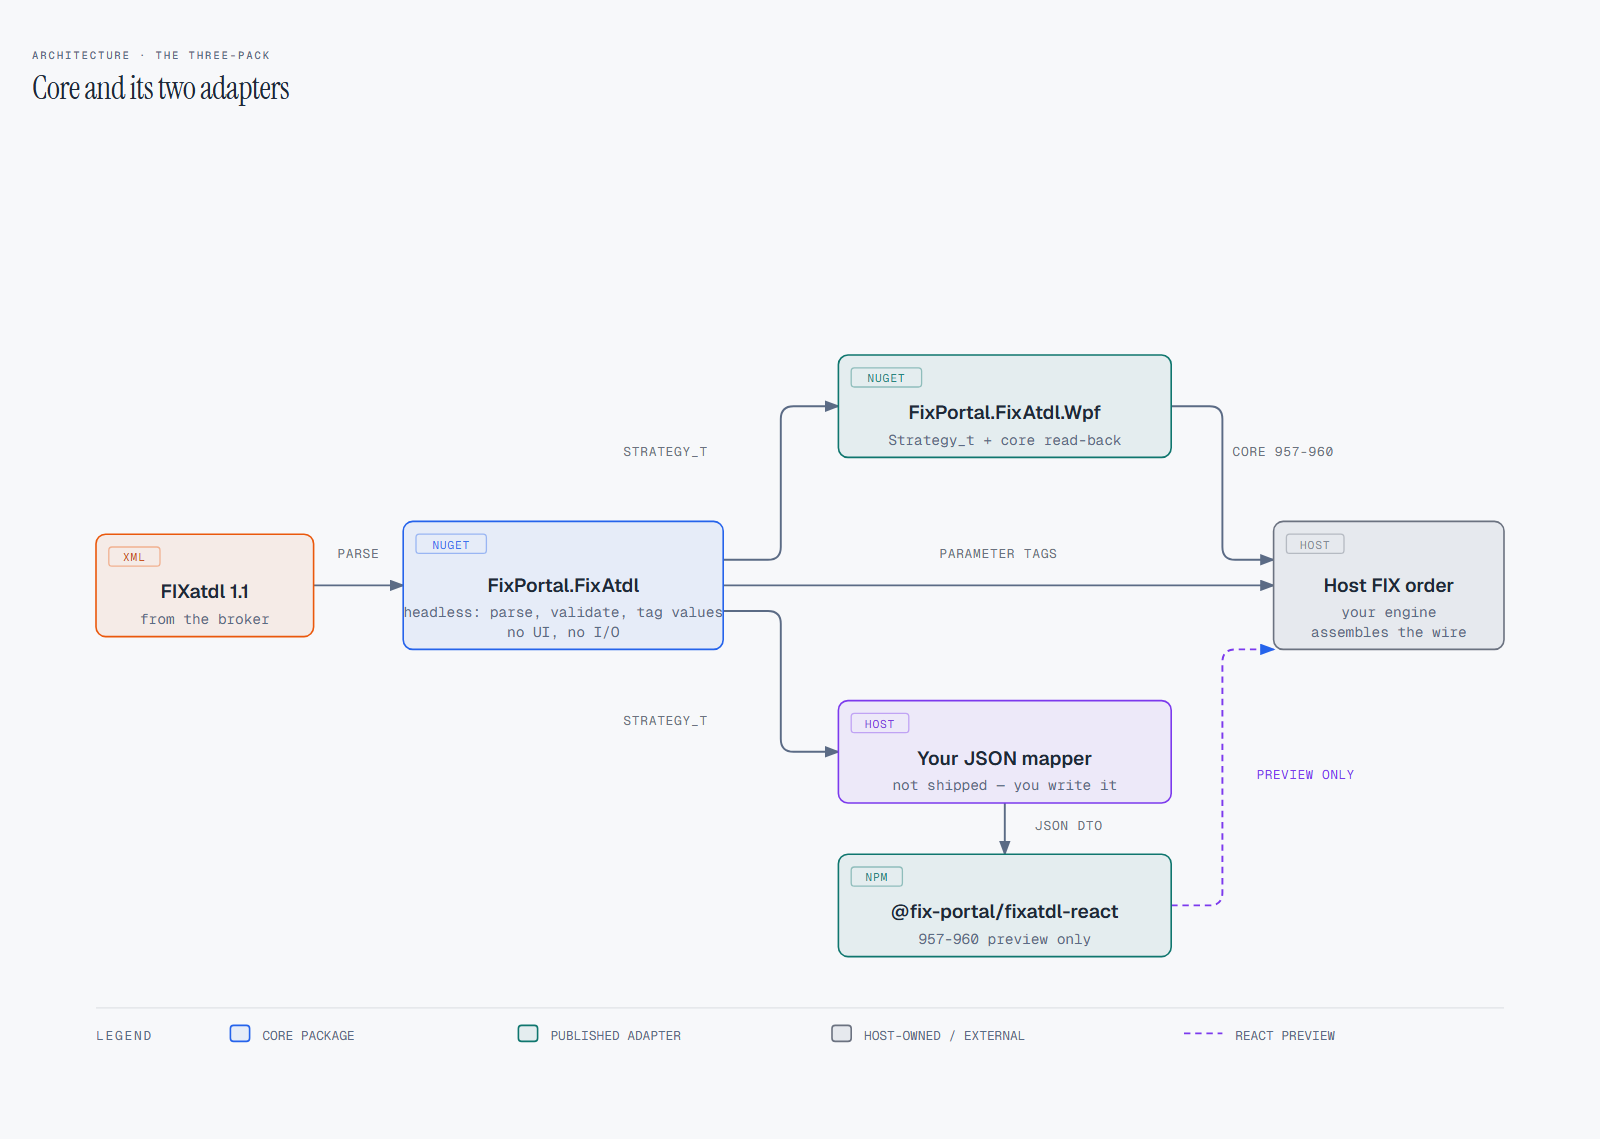
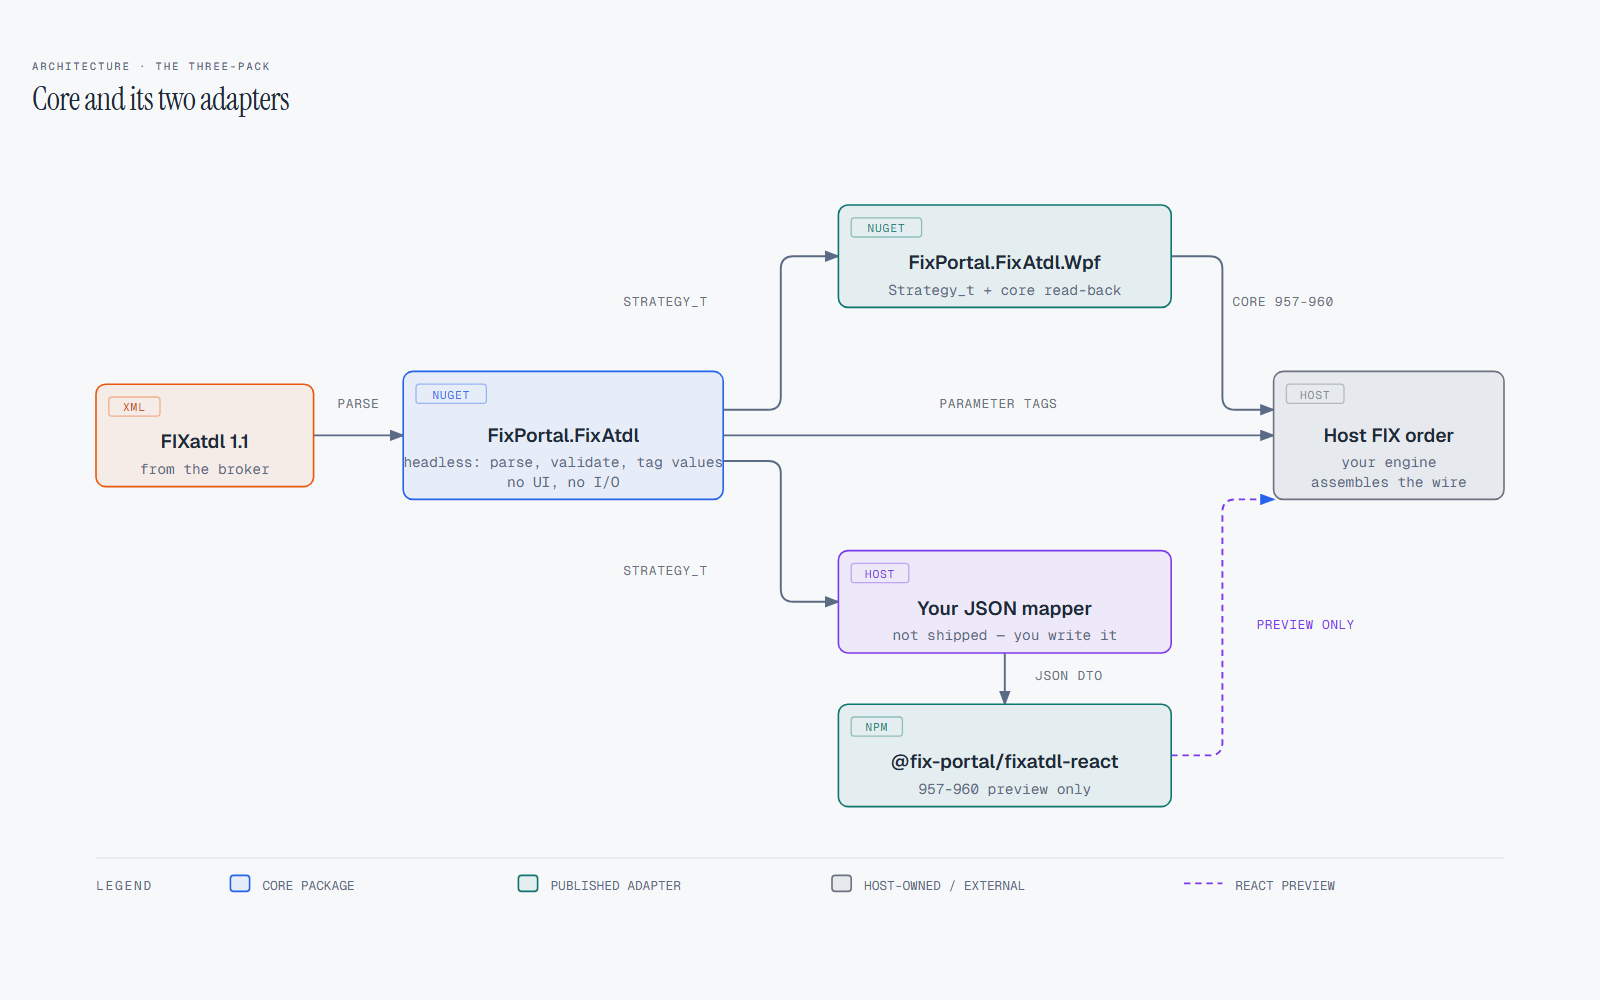
Centre core architecture diagram vertically

diff --git a/docs/diagrams/three-pack.html b/docs/diagrams/three-pack.html
@@ -53,7 +53,7 @@
     <p class="eyebrow">Architecture · The three-pack</p>
     <h1>Core and its two adapters</h1>
 
-    <svg viewBox="0 0 960 600" xmlns="http://www.w3.org/2000/svg" role="img" aria-labelledby="threepack-title threepack-desc">
+    <svg viewBox="0 100 960 500" xmlns="http://www.w3.org/2000/svg" role="img" aria-labelledby="threepack-title threepack-desc">
       <title id="threepack-title">Core and its two adapters</title>
       <desc id="threepack-desc">Broker FIXatdl XML is parsed by the headless core package. The core emits direct parameter tag values and the authoritative 957 to 960 group; WPF consumes Strategy_t directly and reads the group back through the core emitter, while the React adapter receives a host-mapped JSON DTO and emits only a 957 to 960 preview. The host assembles and serializes the final FIX order.</desc>
       <defs>
